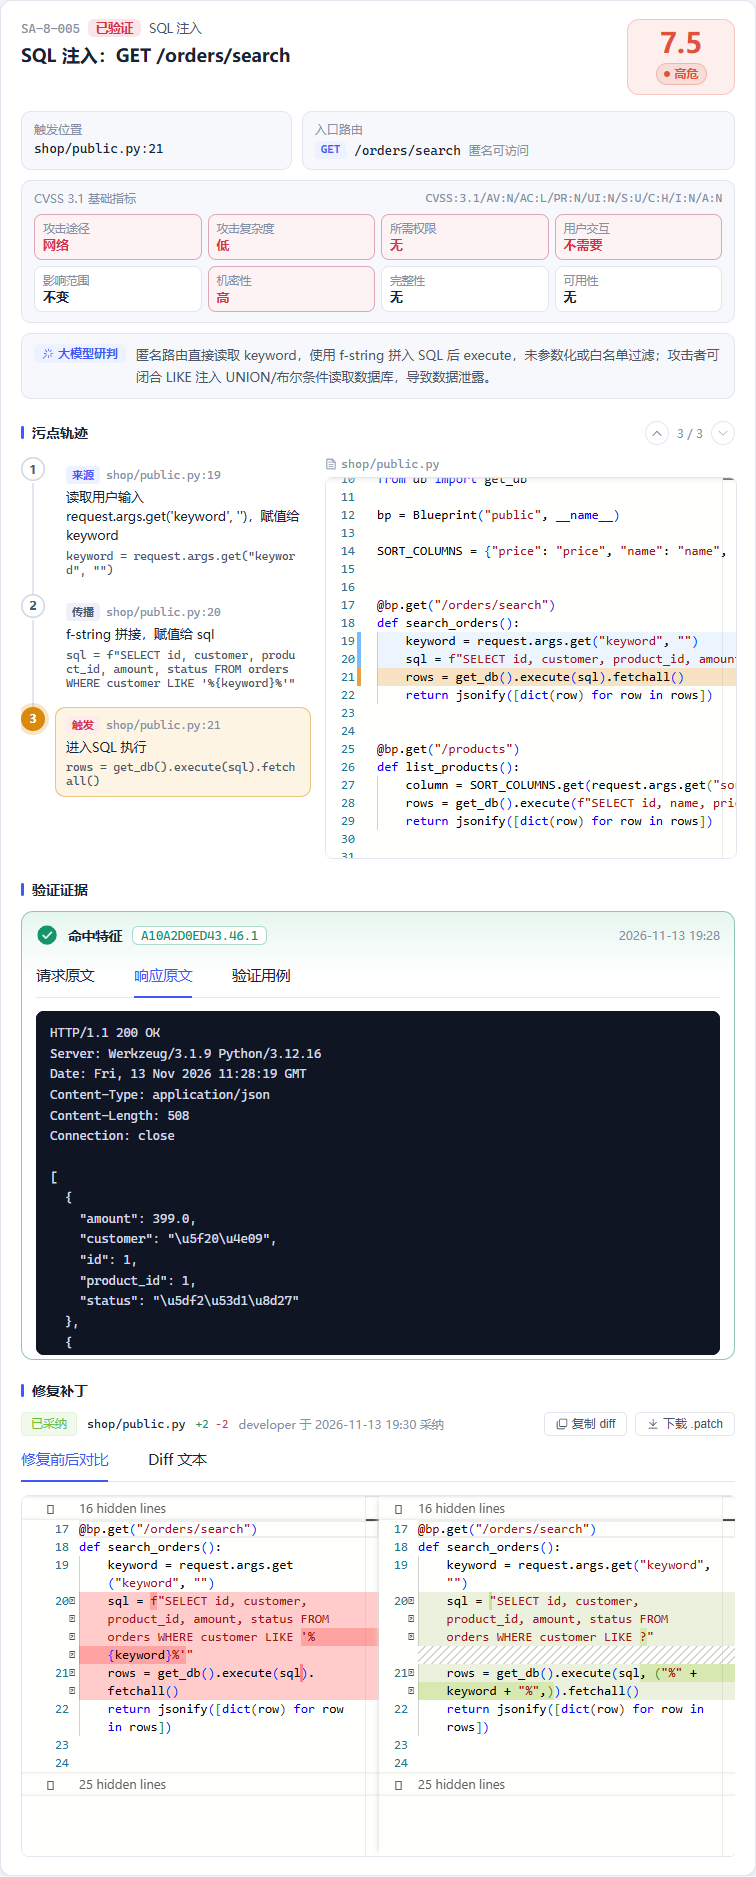
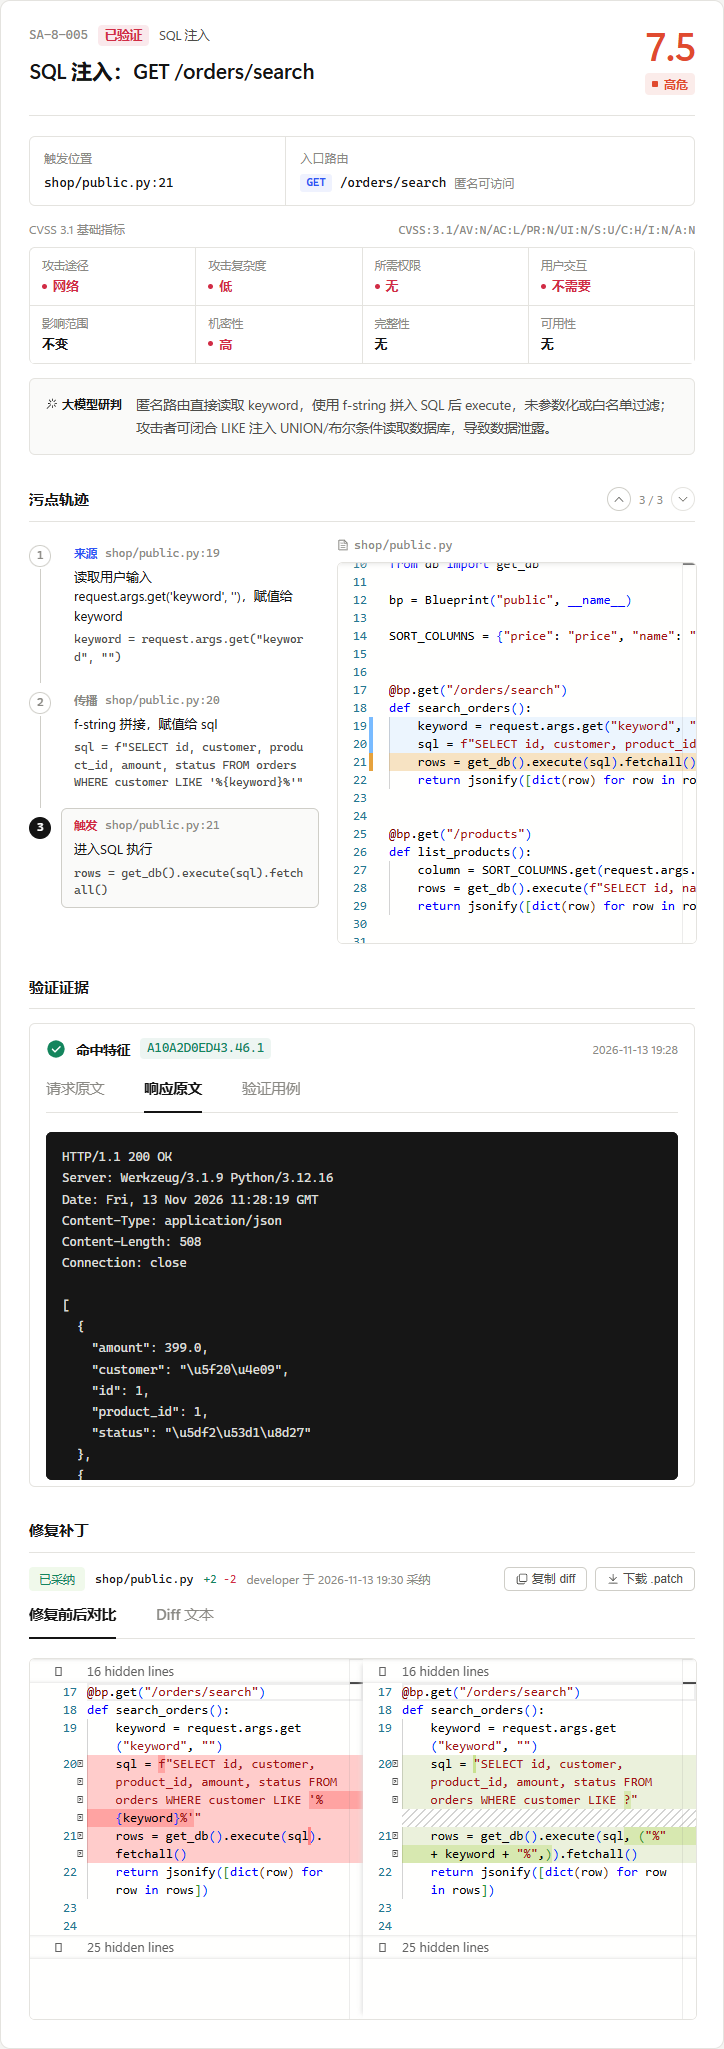
Retake acceptance screenshots for the grayscale theme and link docs from README

diff --git a/docs/验收记录.md b/docs/验收记录.md
@@ -30,7 +30,7 @@
 | --- | --- | --- |
 | US1-1 五阶段跑到 completed | 通过 | 任务 #8；`test_shop_admin_assessment`；截图 04 |
 | US1-2 动态验证阶段停止 | 通过 | 任务 #13 停在动态验证，容器销毁，疑似漏洞可查看；任务 #10 停止后 7 条已验证漏洞可查看；`test_stop_keeps_findings_and_removes_container`；截图 13 |
-| US1-3 日志持续追加、资源曲线持续显示 | 通过 | 任务 #8 运行中收到 70 条日志事件和 18 条资源事件；截图 03（界面改版后重拍，为任务 #16 运行中） |
+| US1-3 日志持续追加、资源曲线持续显示 | 通过 | 任务 #8 运行中收到 70 条日志事件和 18 条资源事件；截图 03（界面改版后重拍，为任务 #20 运行中） |
 | US1-4 缺包靶场自动准备依赖并进入动态验证 | 通过 | 任务 #9 日志：“依赖准备完成：从 wheel 安装 1 项，使用镜像预装 1 项”，PyJWT 2.9.0 不在预装镜像中；`test_user_center_dependency_is_prepared` |
 | US2-1 已验证 SQL 注入的触发行、轨迹与报文 | 通过 | 截图 05：代码视图高亮 `shop/public.py:21`，轨迹 3 步各带路径、行号和代码片段；截图 06：响应原文，命中特征 `A10A2D0ED43.46.1`（随机标记与 SQLite 版本号拼接） |
 | US2-2 未命中的候选为疑似、不高于中危、分组显示 | 通过（核对后修正） | `test_verification_updates_status_and_saves_evidence` 断言未命中降为中危，`test_unverified_findings_capped_at_medium` 断言没发探针的疑似同样封顶；截图 07 为疑似分组。两个靶场上发出的探针全部命中，演示中没有出现未命中的候选 |
@@ -41,7 +41,7 @@
 | US5-1 unified diff 与左右对比 | 通过 | 截图 10 |
 | US5-2 采纳写审计，`.patch` 可应用 | 通过 | 研发人员采纳 SA-8-005 后审计日志新增 developer 的 patch_adopt 记录；任务 #8、#9 的 9 个 `.patch` 在原工程副本上 `git apply --check` 全部通过 |
 | US6-1 调低超时后新任务超时失败 | 通过 | `test_lowered_timeout_fails_new_task`：失败原因“超过任务总时长上限（1 分钟）”，容器被销毁 |
-| US6-2 达到并发上限时排队 | 通过 | 任务 #9 提交时为 created，#8 结束后自动开始；截图 01 显示“评估中 1、排队中 1”（界面改版后重拍，为任务 #16 运行、#17 排队）；`test_raising_concurrency_starts_queued_task` |
+| US6-2 达到并发上限时排队 | 通过 | 任务 #9 提交时为 created，#8 结束后自动开始；截图 01 显示“评估中 1、排队中 1”（界面改版后重拍，为任务 #20 运行、#21 排队）；`test_raising_concurrency_starts_queued_task` |
 | US6-3 非管理员看不到配置页，接口被拒 | 通过 | 截图 16：安全工程师菜单只有项目概览和报告中心，打开配置页被拦回概览；`test_role_matrix` |
 
 ## 功能需求
@@ -130,7 +130,7 @@
 
 ## 截图清单
 
-01–17 与 19 按界面改版（D-030）后的界面重拍，固定浅色主题。01、03 需要运行中与排队中的评估，为重拍时对已有项目重新评估的任务 #16、#17；其余沿用正文引用的任务 #8、#9、#13。18 为导出的 PDF 页面，不受改版影响，未重拍。
+01–17 与 19 按扁平灰阶主题（D-031）后的界面重拍，固定浅色主题。01、03 需要运行中与排队中的评估，为重拍时对已有项目重新评估的任务 #20、#21；其余沿用正文引用的任务 #8、#9、#13。18 为导出的 PDF 页面，不受改版影响，未重拍。
 
 | 文件 | 内容 |
 | --- | --- |
